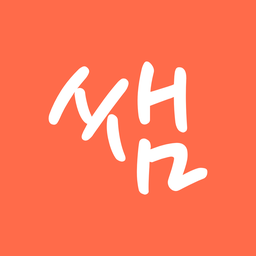
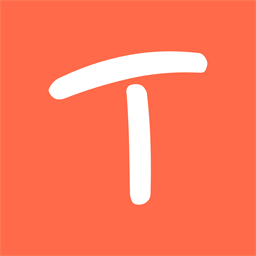
쌤케줄 1.1.0 출시: 새 소식·영어 이름 Teachedule·아이콘 「T」·영어 스토어 링크 us
- news.json에 1.1.0 글(ko·ja·en, 스토어 새로운 기능과 같은 문구)
- 영어 페이지 이름 Teachedule, 수강생 로그인 Apple·Google, 언어에 English
- 영어 페이지 App Store 링크를 kr → us(중국 본토를 뺀 모든 나라로 판매 확대)
- 아이콘을 모든 언어에서 손글씨 「T」로(icon-ja.png 삭제)

Changed region(s): [[0.1875, 0.1875, 0.8125, 0.8125]]

diff --git a/app/apps/_lib/apps.ts b/app/apps/_lib/apps.ts
@@ -204,14 +204,13 @@ const SOURCES: AppSource[] = [
   {
     slug: 'ssamkejul',
     icon: '/apps/ssamkejul/icon.png',
-    iconByLang: { ja: '/apps/ssamkejul/icon-ja.png' },
     // 홍보 영상용으로 찍어 둔 실제 화면(business/promo/assets/ssamkejul/piano)
     screens: {
       ko: ['/apps/ssamkejul/screens/ko-week.jpg', '/apps/ssamkejul/screens/ko-home.jpg', '/apps/ssamkejul/screens/ko-students.jpg'],
       ja: ['/apps/ssamkejul/screens/ja-week.jpg', '/apps/ssamkejul/screens/ja-home.jpg', '/apps/ssamkejul/screens/ja-students.jpg'],
     },
-    // 한국·일본에서만 판다. 영어 페이지는 한국 스토어로 보낸다
-    appStore: { id: '6835451326', country: { ko: 'kr', ja: 'jp', en: 'kr' } },
+    // 2026-11-24 1.1.0(영어 지원)부터 중국 본토를 뺀 모든 나라에서 판다
+    appStore: { id: '6835451326', country: { ko: 'kr', ja: 'jp', en: 'us' } },
     googlePlayUrl: null,
     pages: [
       { key: 'privacy', path: '/apps/ssamkejul/privacy' },
@@ -222,7 +221,7 @@ const SOURCES: AppSource[] = [
     text: {
       ko: {
         name: '쌤케줄',
-        altNames: ['せんせジュール', 'Ssamkejul'],
+        altNames: ['せんせジュール', 'Teachedule'],
         description: '쌤, 언제 돼요? 이제 묻지 마세요',
         features: [
           '1인 레슨 선생님을 위한 일정 앱입니다.',
@@ -233,14 +232,14 @@ const SOURCES: AppSource[] = [
         ],
         facts: [
           { label: '기기', value: 'iPhone, iPad (선생님, Android 준비 중), 웹 (수강생)' },
-          { label: '언어', value: '한국어, 日本語' },
+          { label: '언어', value: '한국어, English, 日本語' },
           { label: '가격', value: '지금은 무료' },
         ],
         pageLabels: { privacy: '개인정보처리방침', support: '지원', deleteAccount: '계정·데이터 삭제', terms: '이용약관' },
       },
       ja: {
         name: 'せんせジュール',
-        altNames: ['쌤케줄', 'Ssamkejul'],
+        altNames: ['쌤케줄', 'Teachedule'],
         description: 'レッスンの予約・振替、LINEでかんたん',
         features: [
           '個人レッスンの先生のためのスケジュールアプリです。',
@@ -251,25 +250,25 @@ const SOURCES: AppSource[] = [
         ],
         facts: [
           { label: '端末', value: 'iPhone、iPad(先生。Android は準備中)、Web(生徒)' },
-          { label: '言語', value: '한국어, 日本語' },
+          { label: '言語', value: '한국어, English, 日本語' },
           { label: '価格', value: '現在無料' },
         ],
         pageLabels: { privacy: 'プライバシーポリシー', support: 'サポート', deleteAccount: 'アカウント・データの削除', terms: '利用規約' },
       },
       en: {
-        name: 'Ssamkejul',
+        name: 'Teachedule',
         altNames: ['쌤케줄', 'せんせジュール'],
         description: 'Lesson scheduling for independent teachers — students just open a link',
         features: [
           'A scheduling app for independent lesson teachers.',
-          'Students need nothing to install: they open a link, sign in with Kakao or LINE, and book, reschedule or cancel.',
+          'Students need nothing to install: they open a link, sign in with Apple or Google, and book, reschedule or cancel.',
           'Set rules like auto-confirm and deadlines, and stop the endless “are you free then?” chats.',
           'Two students can never book the same time.',
           'No ads, and free for now.',
         ],
         facts: [
           { label: 'Devices', value: 'iPhone, iPad (teachers; Android coming soon), web (students)' },
-          { label: 'Languages', value: '한국어, 日本語' },
+          { label: 'Languages', value: '한국어, English, 日本語' },
           { label: 'Price', value: 'Free for now' },
         ],
         pageLabels: { privacy: 'Privacy Policy', support: 'Support', deleteAccount: 'Delete account & data', terms: 'Terms of Use' },

diff --git a/app/[lang]/pages.test.tsx b/app/[lang]/pages.test.tsx
@@ -134,7 +134,7 @@ describe('홈', () => {
     expect(container.textContent).toContain('수강생 195명 · 평점 5.0 · 수강평 22개');
     expect(hrefs()).toEqual(expect.arrayContaining(['https://www.inflearn.com/ko/users/1167019/@joyopi', 'https://www.inflearn.com/ko/course/distributed-transact-1']));
     // 새 소식: 앱 새 소식(앱 이름 붙여)과 사이트 소식
-    expect(container.textContent).toContain('쌤케줄 · 1.0.1 업데이트');
+    expect(container.textContent).toContain('쌤케줄 · 1.1.0 업데이트');
     expect(hrefs()).toContain('/news');
     // 의견 보내기는 로그인 없이 창으로, 긴 문의는 메일
     expect(screen.getByRole('button', { name: '의견 보내기' })).toBeInTheDocument();
